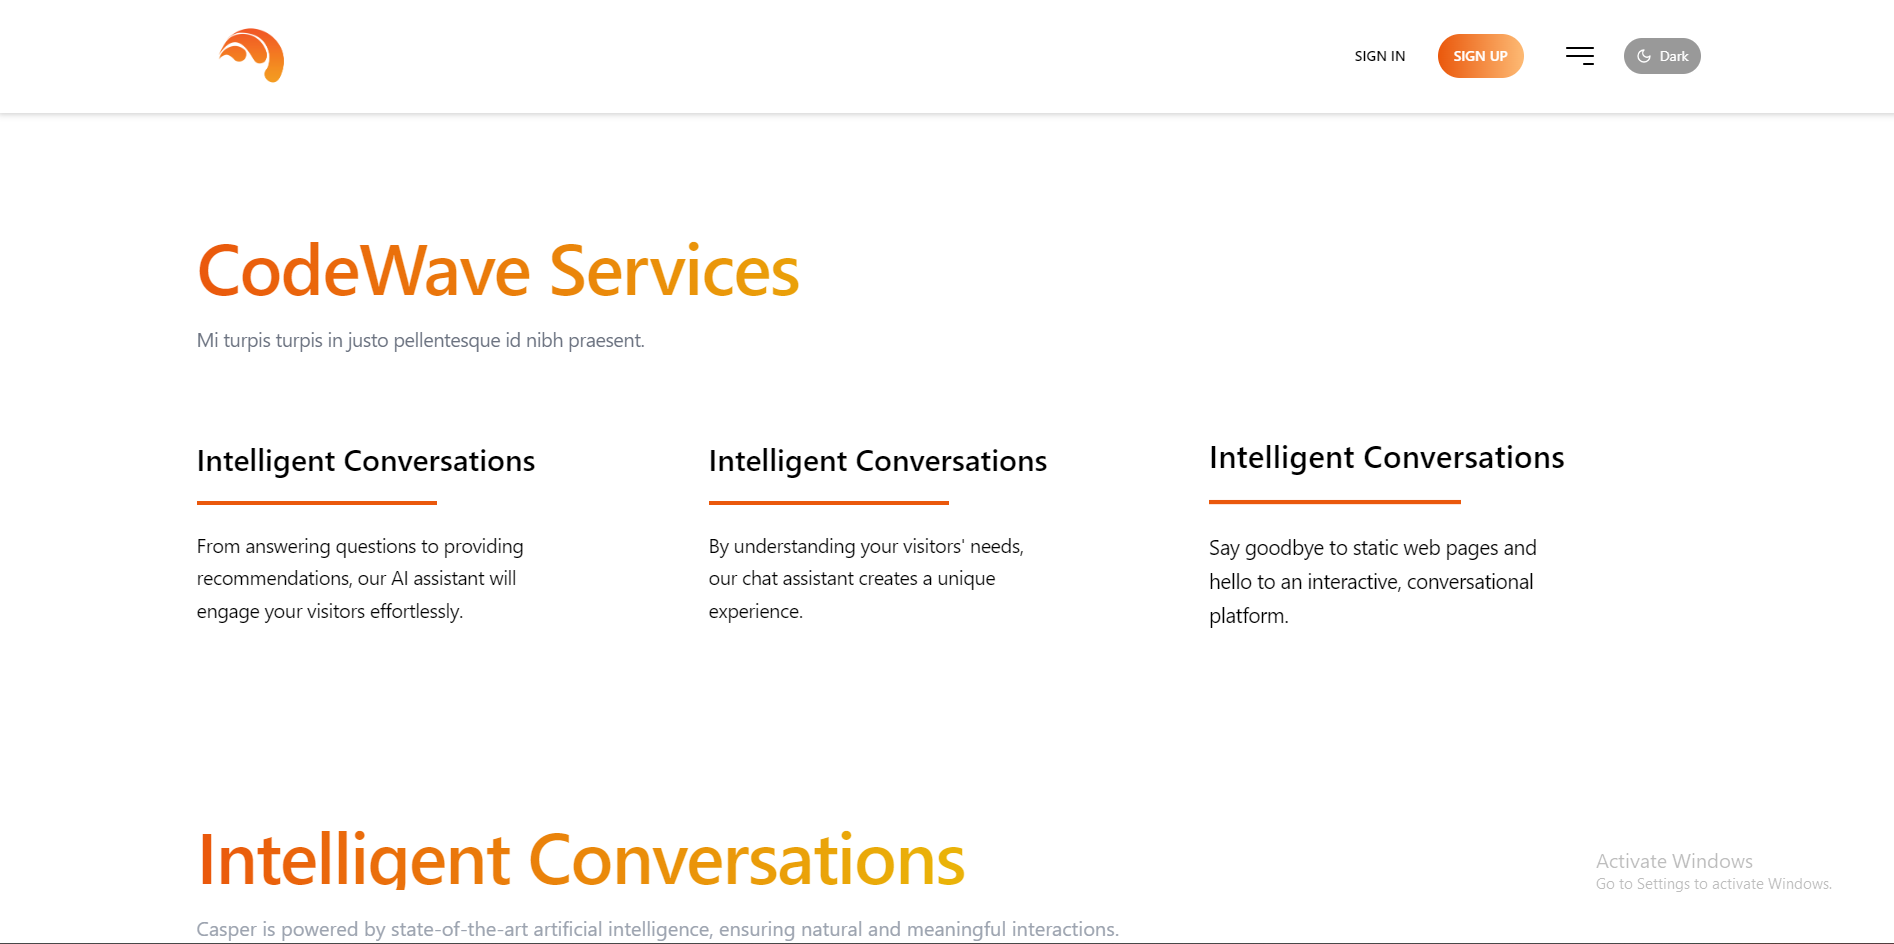
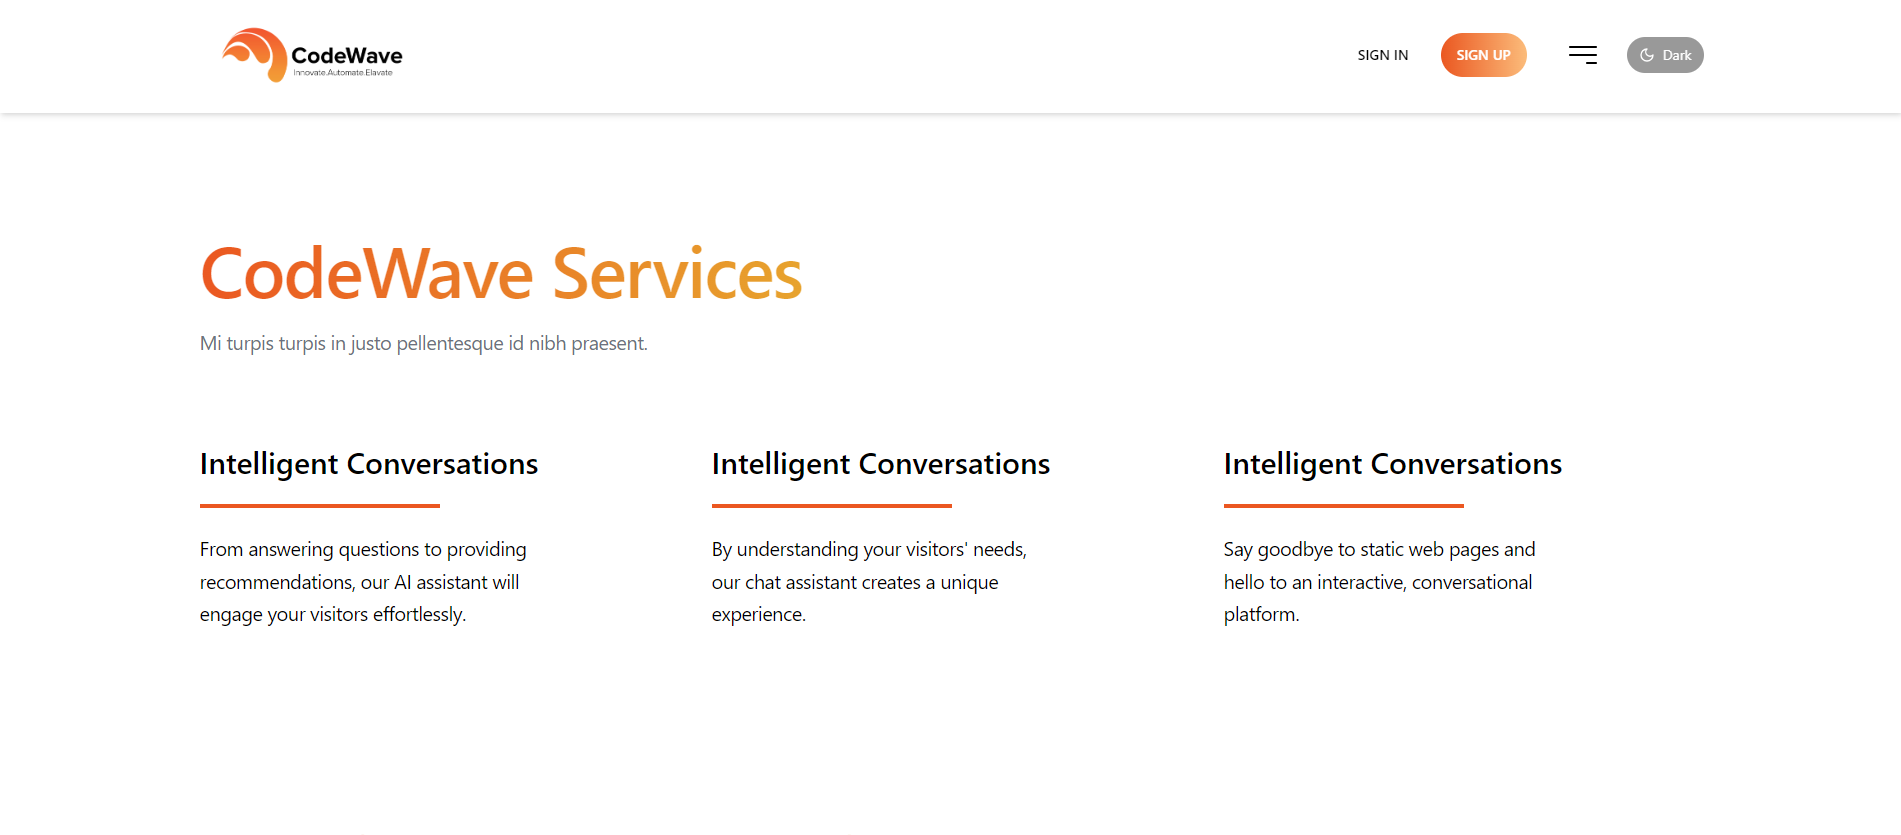
update readme

diff --git a/frontend/src/pages/Landing.jsx b/frontend/src/pages/Landing.jsx
@@ -108,7 +108,7 @@ function SampleNextArrow(props) {
                     <div className="container mx-auto px-4">
                     <div className="relative flex items-center justify-between">
                         <Link className="inline-block" to="/">
-                        <img className="w-48 rounded-full" src="../images/3.png" alt="" />
+                        <img className="w-48 rounded-full" src={`${isDarkMode ?"../images/3.png" : "../images/Logo.png" }`} alt="" />
                         </Link>
                         <div className="flex items-center justify-end">
                         <div className="hidden lg:block mr-10">
@@ -323,7 +323,7 @@ function SampleNextArrow(props) {
                      {/* Logo Container */}
                     <div className="flex justify-start w-full">
                     <a href="/login" className="flex justify-center">
-                        <img src="/images/3.png" alt="Logo" className="w-32 rounded" />
+                        <img src={`${isDarkMode ?"../images/3.png" : "../images/Logo.png" }`} alt="Logo" className="w-32 rounded" />
                     </a>
                     </div>
 
@@ -825,7 +825,7 @@ function SampleNextArrow(props) {
         </section>
         
         {/* --------------------- Footer section ----------------------*/}
-        <footer class="py-12 bg-gray-800">
+        <footer class="py-12 bg-black">
     <div class="container mx-auto px-4">
         <div class="flex flex-wrap -mx-4">
 
